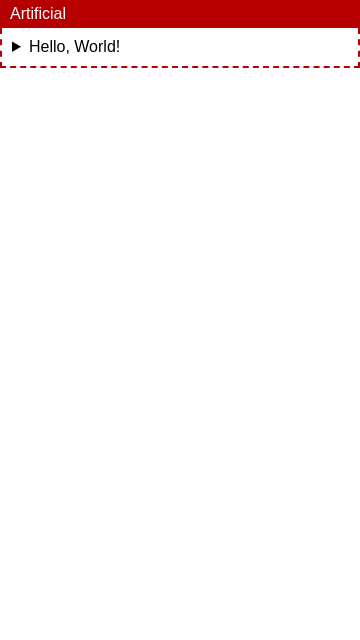
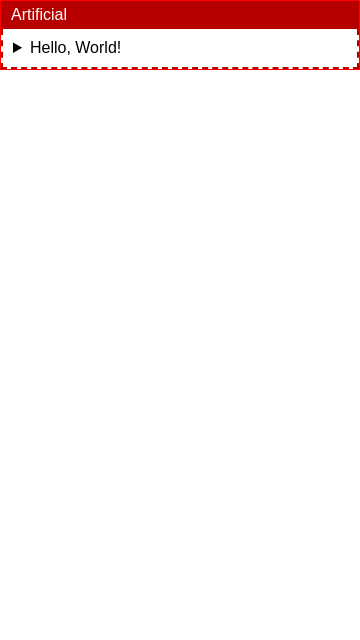
Add a red box

Changed region(s): [[0.0, 0.0, 1.0, 0.125]]

diff --git a/__tests__/html2/middleware/errorBox/simple.html b/__tests__/html2/middleware/errorBox/simple.html
@@ -20,8 +20,12 @@
     </script>
     <script crossorigin="anonymous" defer src="/__dist__/webchat-es5.js"></script>
     <script crossorigin="anonymous" defer src="/__dist__/botframework-webchat-debug-theme.development.js"></script>
+    <style type="text/css">
+      .webchat > .error-box {
+        border: solid 1px red;
+      }
+    </style>
   </head>
-
   <body>
     <main id="webchat"></main>
     <script type="module">
@@ -47,7 +51,7 @@
 
           const errorBox = renderErrorBox({ error: new Error('Hello, World!'), where: 'Artificial' });
 
-          return errorBox?.({});
+          return createElement('div', { className: 'error-box' }, errorBox?.({}));
         };
 
         const hasDebugProvider = !new URL(location.href).searchParams.has('no-debug-provider');
